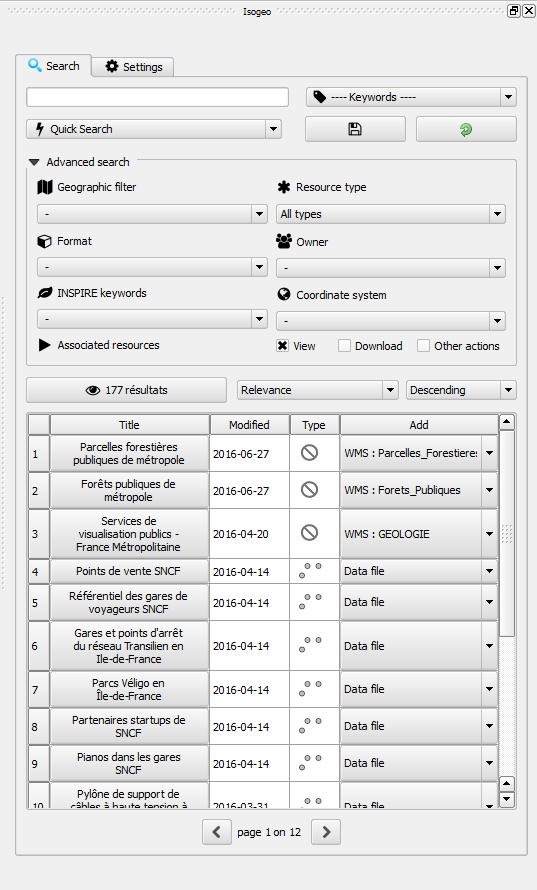
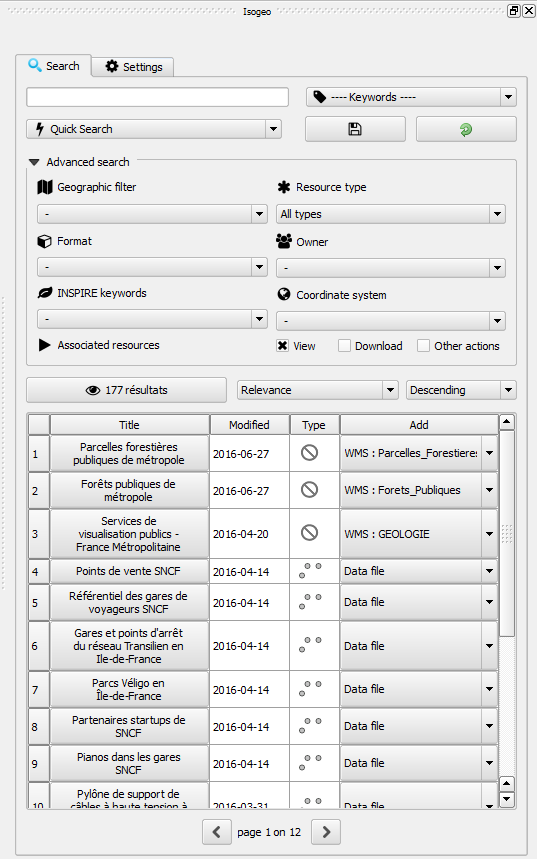
still updating

diff --git a/README.md b/README.md
@@ -39,7 +39,7 @@ It's fully integrated with QGIS ecosystem:
 |:------------------:|:-----------------:|
 | ![Search widget with no filters](img/ui_tabs_main_search_empty_en.png) | ![Search widget with some filters](img/ui_tabs_main_search_filtered_en.png) |
 
-![Add data to the project](img/ui_tabs_main_add_dataset_file.png)
+![Add data to the project](img/ui_tabs_main_add_dataset_file_annoted_en.png)
 
 ## Getting started ##
 
